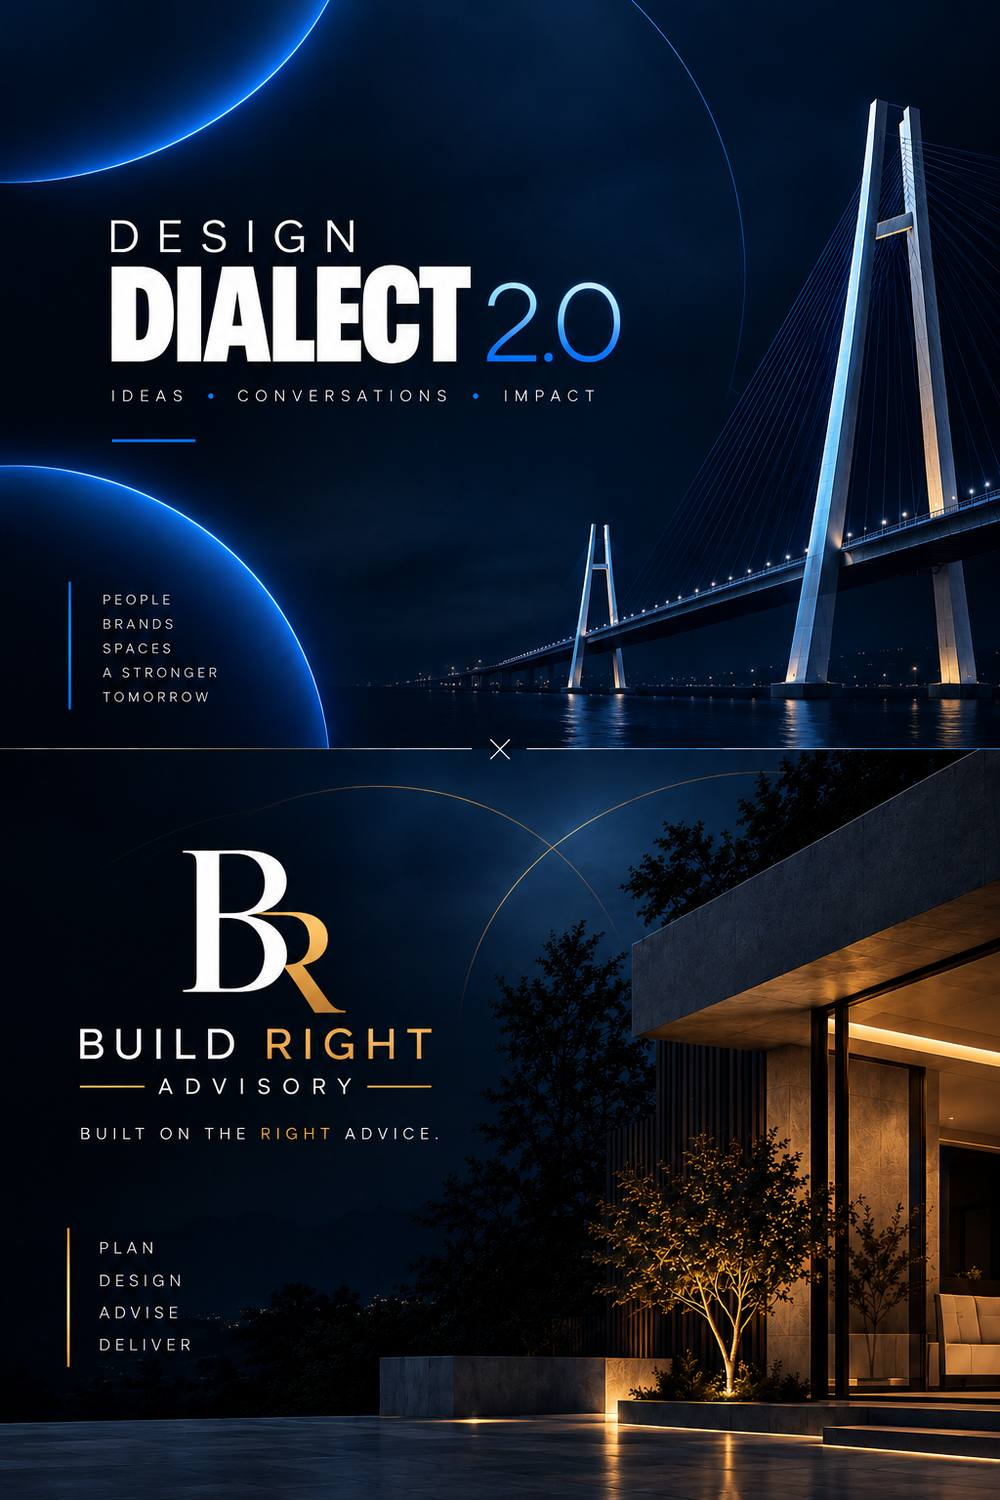
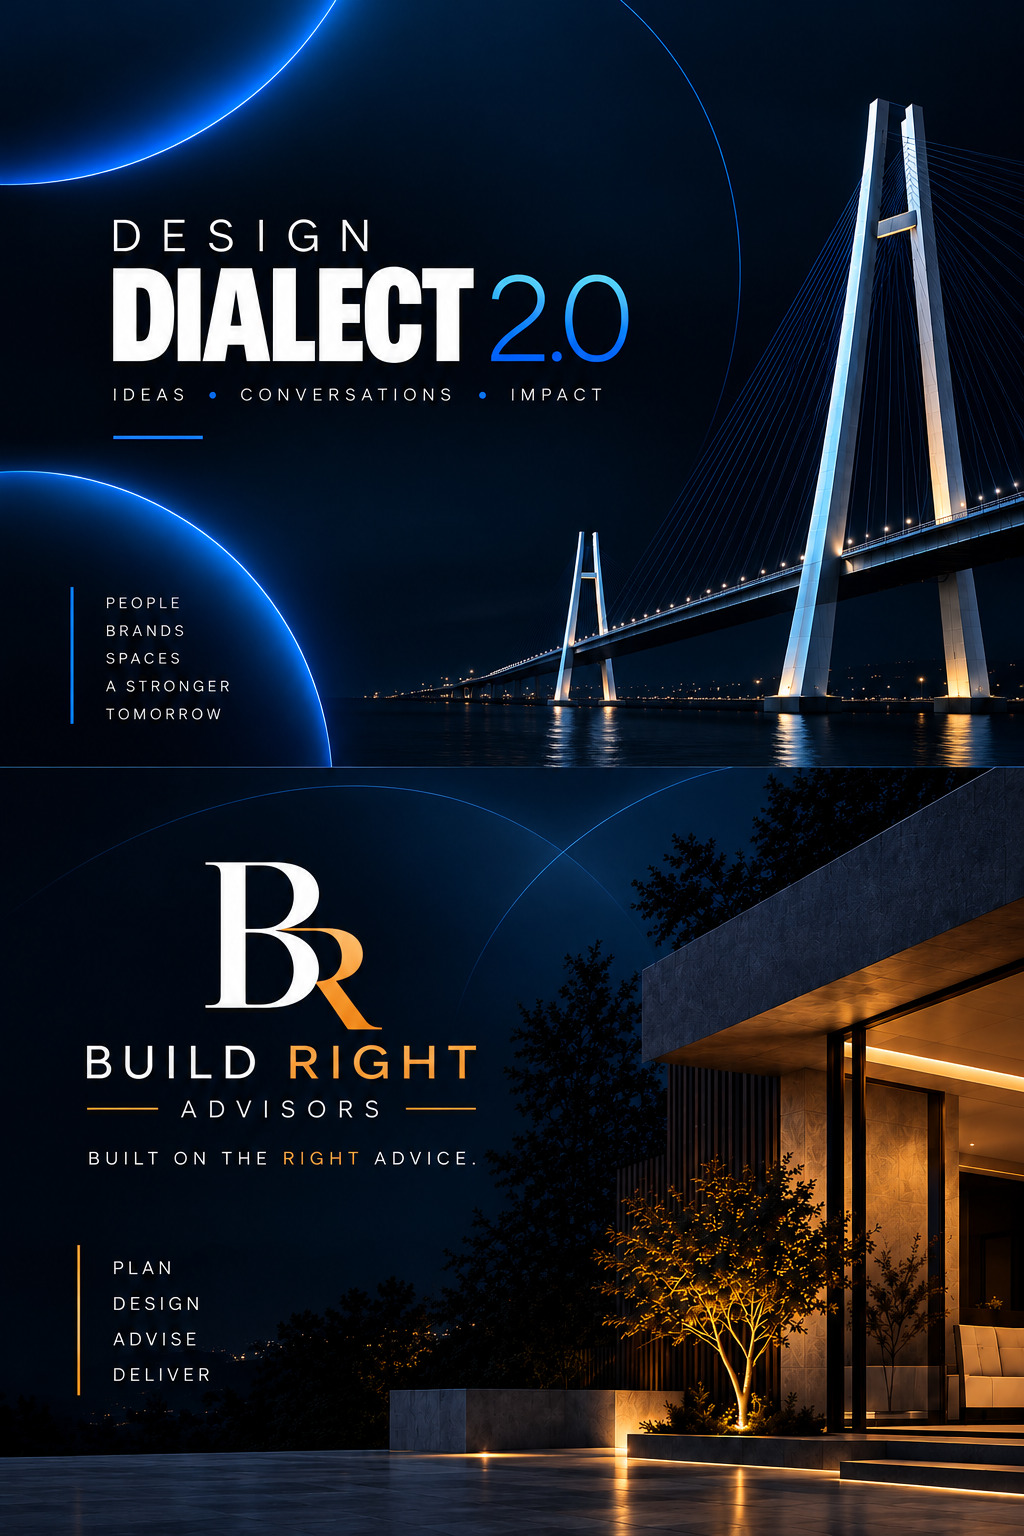
Build Right: add services poster on page; update event popup poster

diff --git a/app/(site)/build-right/page.tsx b/app/(site)/build-right/page.tsx
@@ -262,6 +262,18 @@ export default function BuildRightPage() {
             </p>
           </Reveal>
 
+          {/* Services poster (static image, non-clickable) */}
+          <Reveal className="mx-auto mt-12 max-w-3xl md:mt-16">
+            <Image
+              src="/build-right-services-poster.png"
+              alt="Build Right Advisors - Construction Advisory Services"
+              width={941}
+              height={1530}
+              sizes="(max-width: 768px) 100vw, 768px"
+              className="h-auto w-full rounded-xl border border-hairline"
+            />
+          </Reveal>
+
           <RevealGroup className="mt-10 grid gap-4 md:mt-14 md:grid-cols-2 md:gap-6 lg:grid-cols-4">
             {SERVICES.map((service) => (
               <div key={service.number} className="panel group p-5 transition-all hover:border-copper md:p-6">
